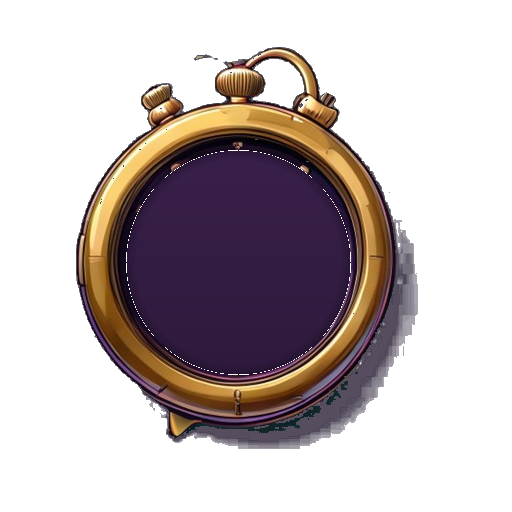
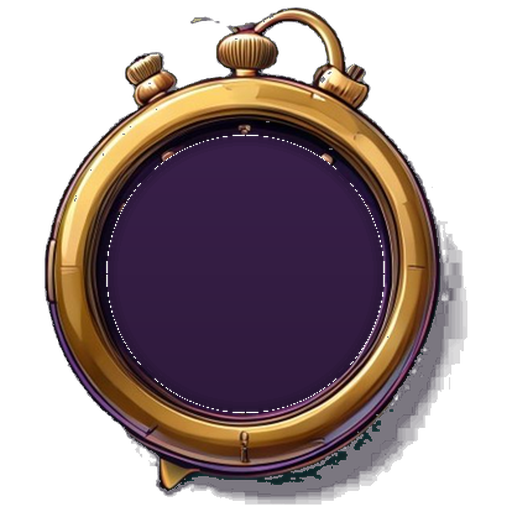
stopclock: bigger clock — tighten watch art crop (face r112->139 of 512), container 272px -> min(340px, 82vw), number 44px

diff --git a/components/games/StopClockGame.jsx b/components/games/StopClockGame.jsx
@@ -22,8 +22,8 @@ const prizeFor = (diff, stageIdx) => {
   return diff === 0 ? p[0] : diff <= 2 ? p[1] : diff <= 5 ? p[2] : diff <= 10 ? p[3] : diff <= 20 ? p[4] : 0;
 };
 
-// watch.png face geometry (512x512 art): center (238,262), radius 112
-const FC = { x: 238, y: 262, r: 112 };
+// watch.png face geometry (512x512 art): center (245,273), radius 139
+const FC = { x: 245, y: 273, r: 139 };
 
 function StopClockGame({ onClose, onWin, closing }) {
   const [gameState, setGameState] = useState('ready'); // ready, intro, spinning, stageResult, done
@@ -183,7 +183,7 @@ function StopClockGame({ onClose, onWin, closing }) {
         </div>
 
         {/* Watch */}
-        <div style={{ position: 'relative', width: 272, height: 272, margin: '0 auto 6px' }}>
+        <div style={{ position: 'relative', width: 'min(340px, 82vw)', aspectRatio: '1', margin: '0 auto 6px' }}>
           <img src="/ui/stopclock/watch.png" alt="" draggable={false} style={{ position: 'absolute', inset: 0, width: '100%', height: '100%', filter: 'drop-shadow(0 10px 22px rgba(0,0,0,.45))' }} />
           <svg viewBox="0 0 512 512" style={{ position: 'absolute', inset: 0, width: '100%', height: '100%' }}>
             {/* tick ring */}
@@ -225,7 +225,7 @@ function StopClockGame({ onClose, onWin, closing }) {
           </svg>
 
           {/* big number */}
-          <div style={{ position: 'absolute', left: `${(FC.x / 512) * 100}%`, top: `${((FC.y + 52) / 512) * 100}%`, transform: 'translate(-50%, -50%)', fontSize: 34, fontWeight: 900, fontVariantNumeric: 'tabular-nums', color: gameState === 'spinning' ? '#fff' : last && gameState !== 'ready' ? (last.diff <= 5 ? C.green : C.gold) : 'rgba(255,255,255,.5)', textShadow: '0 2px 8px rgba(0,0,0,.6)' }}>
+          <div style={{ position: 'absolute', left: `${(FC.x / 512) * 100}%`, top: `${((FC.y + 64) / 512) * 100}%`, transform: 'translate(-50%, -50%)', fontSize: 44, fontWeight: 900, fontVariantNumeric: 'tabular-nums', color: gameState === 'spinning' ? '#fff' : last && gameState !== 'ready' ? (last.diff <= 5 ? C.green : C.gold) : 'rgba(255,255,255,.5)', textShadow: '0 2px 8px rgba(0,0,0,.6)' }}>
             {String(gameState === 'ready' ? 0 : currentNum).padStart(2, '0')}
           </div>
 